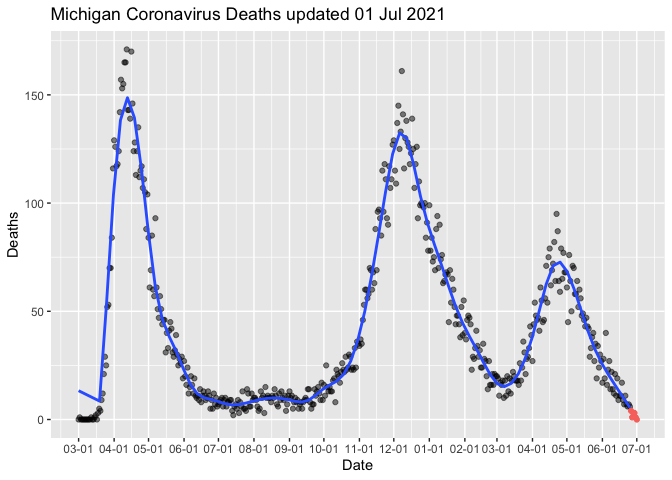
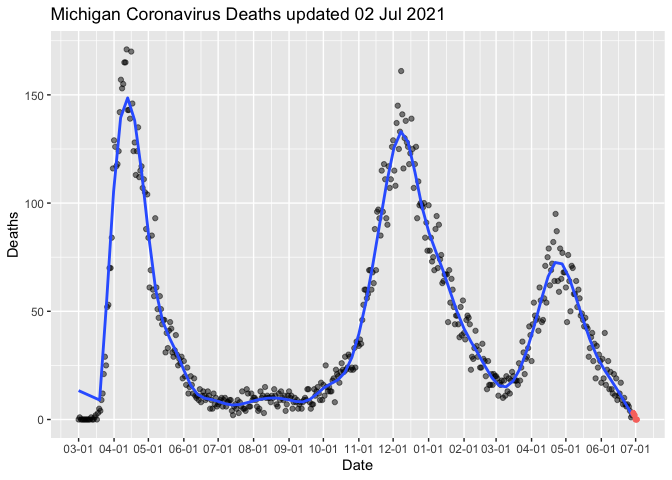
Jul-05 2021 10:43 update

diff --git a/MiCorona.md b/MiCorona.md
@@ -1,7 +1,7 @@
 Michigan COVID Data
 ================
 Adam D. DenHaan
-Jul 02, 2021
+Jul 05, 2021
 
 Get link for data:
 
@@ -48,11 +48,11 @@ mi_data.head()
     ## 4  Alcona 2020-03-05   Confirmed    0.0     0.0               0.0   
     ## 
     ##    Deaths.Cumulative                       Updated  
-    ## 0                0.0 2021-07-01 14:00:50.719899904  
-    ## 1                0.0 2021-07-01 14:00:50.719899904  
-    ## 2                0.0 2021-07-01 14:00:50.719899904  
-    ## 3                0.0 2021-07-01 14:00:50.719899904  
-    ## 4                0.0 2021-07-01 14:00:50.719899904
+    ## 0                0.0 2021-07-02 13:15:19.180499968  
+    ## 1                0.0 2021-07-02 13:15:19.180499968  
+    ## 2                0.0 2021-07-02 13:15:19.180499968  
+    ## 3                0.0 2021-07-02 13:15:19.180499968  
+    ## 4                0.0 2021-07-02 13:15:19.180499968
 
 ``` python
 max_date = max(mi_data["Updated"])
@@ -129,7 +129,7 @@ viz_function(mi_cases_by_day_exclusive, mi_cases_by_day_last4, Date, Deaths, ver
 
 ![](MiCorona_files/figure-gfm/viz2-1.png)<!-- -->
 
-Note that the last 6 days of data have been colored red on the graph, as
+Note that the last 4 days of data have been colored red on the graph, as
 they frequently change as more information becomes available. Vertical
 orange line at 4 weeks in the past (as hospitalizations and deaths
 usually follow cases by three weeks, and the deaths graph regression
